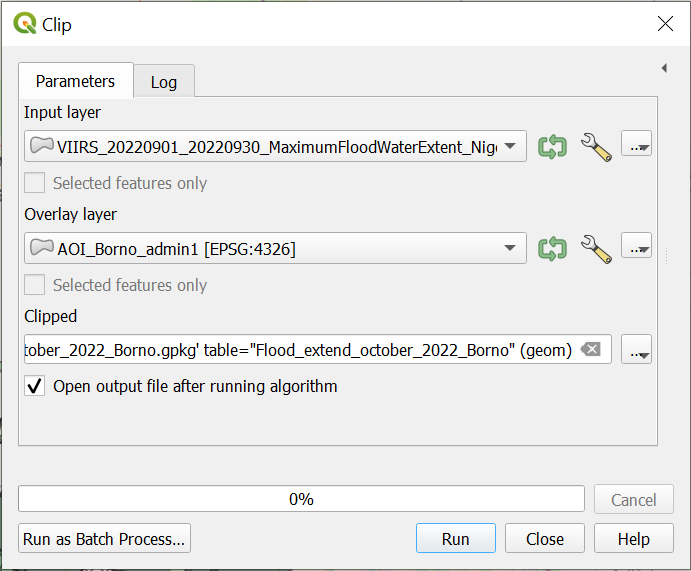
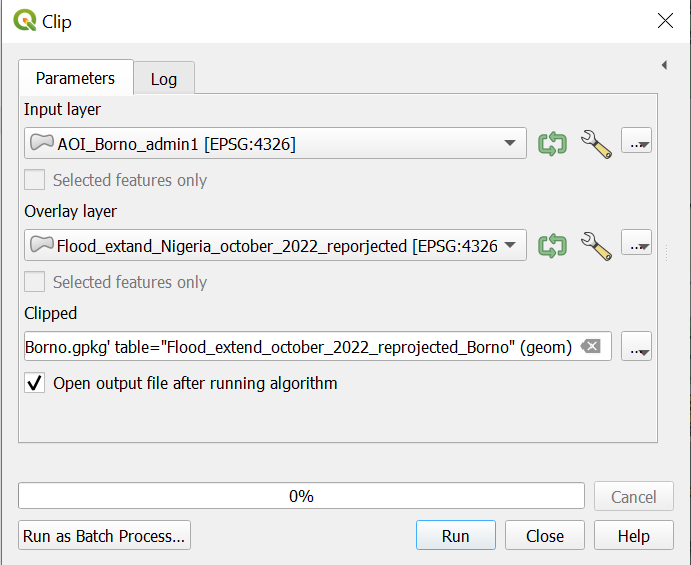
finishing Nigeria Flood exercise and adding a wiki section for map making

diff --git a/content/Modul_3/en_qgis_modul_3_ex1.md b/content/Modul_3/en_qgis_modul_3_ex1.md
@@ -10,6 +10,14 @@ In this exercise, you will learn how to digitise the positions of settlements by
 * [Types of Geodata](https://giscience.github.io/gis-training-resource-center/content/Wiki/en_qgis_geodata_types_wiki.html)
 * [Geodata Import in QGIS](https://giscience.github.io/gis-training-resource-center/content/Wiki/en_qgis_import_geodata_wiki.html)
 * [Layer Concept](https://giscience.github.io/gis-training-resource-center/content/Wiki/en_qgis_layer_concept_wiki.html)
+* [Non-Spatial Querie](https://giscience.github.io/gis-training-resource-center/content/Wiki/en_qgis_non_spatial_queries_wiki.html)
+* [Spatial Queries](https://giscience.github.io/gis-training-resource-center/content/Wiki/en_qgis_spatial_queries_wiki.html)
+* [Table function - Add field](https://giscience.github.io/gis-training-resource-center/content/Wiki/en_qgis_table_functions_wiki.html#add-field)
+* [Geodata Classification- Categorized](https://giscience.github.io/gis-training-resource-center/content/Wiki/en_qgis_categorized_wiki.html)
+* [Geodata Classification- Graduated](https://giscience.github.io/gis-training-resource-center/content/Wiki/en_qgis_graduated_wiki.html)
+* [Digitization- Point data](https://giscience.github.io/gis-training-resource-center/content/Wiki/en_qgis_digitalization_wiki.html#add-geometries-to-a-layer)
+* [Geoprocessing - Clip](https://giscience.github.io/gis-training-resource-center/content/Wiki/en_qgis_geoprocessing_wiki.html#clip) 
+
 
 ## Data sources
 * [Nigeria: Administrative Division with Aggregated Population ("kontur_boundaries_NG_20230628.gpkg")](https://data.humdata.org/dataset/kontur-boundaries-nigeria)-Kontor
@@ -113,7 +121,7 @@ align: center
 12. In this step, we want to add information about the population to the map. This will help us to visualize where the most people are potentially affected.
 Since the layer “Borno_admin2_pop” contains this information we can dublicate this layer. 
     * To do that right click on the layer -> `Duplicate Layer`. The name of the new layer will be “Borno_admin2_pop_copy”. 
-13. Since absolute population numbers are natural numbers, we can not use categorised classification. Instead, we use the option `Graduated`.
+13. Since absolute population numbers are natural numbers, we can not use categorised classification. Instead, we use the option `Graduated` ([Wiki Video](https://giscience.github.io/gis-training-resource-center/content/Wiki/en_qgis_graduated_wiki.html)).
     * Right-click on the layer “Borno_admin2_pop_copy” in the `Layer Panel` -> `Properties`. A new window will open up with a vertical tab section on the left. Navigate to the `Symbology` tab.
     * On the top you find a dropdown menue. Open it and choose `Graduated`.
     * Under `Value` select “Population”.
@@ -130,7 +138,6 @@ name:
 align: center
 ---
 ```
-
 14. QGIS created now five classes covering the whole range of population numbers in Borno state. Click on the `Histogram` Tab -> `Load Values`. Here you see the distribution of values in the dataset and the limits of the classes. We see that most LGAs have a population below 300.000 people. Try out some of the other modes of classification like natural breaks or equal intervals. 
 ```{figure} /fig/en_qgis_graduated_classification_Histogram_nigeria_flood_exercise.png
 ---
@@ -153,7 +160,6 @@ name:
 align: center
 ---
 ```
-
 * To only use borders, click on `simple fill` -> `Fill style` and select `No Brusch`. Adjust the `Stroke Color` to a red or another bride colour. Increase the `Stroke width` to make the borders bigger. Then click `OK`.
 
 ```{figure} /fig/en_qgis_now_brush_nigeria_flood_exercise.png
@@ -163,15 +169,28 @@ name:
 align: center
 ---
 ```
-16. For a more detailed idea of the flood extend we can load the layer “VIIRS_20220901_20220930_MaximumFloodWaterExtent_Nigeria.shp” which shows the maximum extent of surface water between 9th and 30th October 2022. If you like you can also load “VIIRS_20220901_20220930_PermanentWater_Nigeria.shp”. This layer shows laked and other permanent surface water features.
-The flood extend layer covers the whole of Nigeria. We can use the `Clip` tool to cut it to the shape of Borno state.
+16. For a more detailed idea of the flood extend we can load the layer “VIIRS_20220901_20220930_MaximumFloodWaterExtent_Nigeria.shp” which shows the maximum extent of surface water between 9th and 30th October 2022. If you like you can also load “VIIRS_20220901_20220930_PermanentWater_Nigeria.shp”. This layer shows lakes and other permanent surface water features.
+Once you loaded the layers in QGIS, you can see that they are correctly displayed. However, upon checking the layer information you can see that the new layers have a different Coordinate Reference System (CRS). They have the EPSG Code 9707 whereas our project has 4326 ([Wiki Video](https://giscience.github.io/gis-training-resource-center/content/Wiki/en_qgis_projections_wiki.html#how-to-check-epsg-code-crs-of-layer-data)).
+    * Right click on the data layer, click on  “Properties”.
+    * The “Layer Properties” Window of the data layer will open. Click on “Information”.
+    * Under the headline “Coordinate Reference System (CRS)” you find all information about the CRS. The most important are:
+    - __Name:__     Here you find the EPSG Code
+    - __Unites:__    Here you can find wether it is possible to use meters with this data layer or latitude and longitude. 
+17. This will be a problem as soon as we do something different then just displaying the layers. Since we want to manipulate the layers in the next step we need to reproject them first ([Wiki Video](https://giscience.github.io/gis-training-resource-center/content/Wiki/en_qgis_projections_wiki.html#changing-the-projection-of-a-vector-layer)). 
+    * Click on the `Vector` Tab -> `Data Management Tools` -> `Reproject Layer` or search for the tool in the `Processing Toolbox `.
+    * As `Input layer` select “VIIRS_20220901_20220930_MaximumFloodWaterExtent_Nigeria.shp”
+    * Select as target CRS/ EPSG-Code __4326__.
+    * Save the new file in your `temp` folder by clicking on the three dots ![](/fig/Three_points.png) next to `Reprojected`, specify the file name as "Flood_extand_Nigeria_october_2022_reprojected.
+    * Click `Run`
+    * Delet the old layer from the layer panel by right click on the layer -> `Remove layer`.
+18. The flood extend layer covers the whole of Nigeria. We can use the `Clip` tool to cut it to the shape of Borno state ([Wiki Video](https://giscience.github.io/gis-training-resource-center/content/Wiki/en_qgis_geoprocessing_wiki.html#clip)).
     * Open the `Processing Toolbox` ([here is how](https://giscience.github.io/gis-training-resource-center/content/Wiki/en_qgis_interface_wiki.html#toolbox-toolbars)) and search for the `Clip` tool.
     ```{Note}
     There are __two__ versions of the `Clip` tool. Since we work with vector data, make sure to use the one under “Vector overlay”.
     ```
     * `Input layer`: "VIIRS_20220901_20220930_MaximumFloodWaterExtent_Nigeria.shp”
     * `Overlay layer`: “AOI_Borno_admin1”
-    * To save the output click on the three points at `Clipped`-> `Save to GeoPackage`and navigate to your `temp` folder. Save the new layer under the name “Flood_extend_october_2022_Borno”. Give the new layer the same `Layer name` and click `Run`.
+    * To save the output click on the three points at `Clipped`-> `Save to GeoPackage`and navigate to your `temp` folder. Save the new layer under the name “Flood_extend_october_2022_reprojected_Borno”. Give the new layer the same `Layer name` and click `Run`.
 ```{figure} /fig/en_qgis_clip_flood_exercise.png
 ---
 width: 400px
@@ -179,6 +198,20 @@ name:
 align: center
 ---
 ```
+
+Great, we have done our visualisation. WELL DONE!
+Your results should look similar to the image below.
+
+```{figure} /fig/en_qgis_result_flood_exercise.png
+---
+width: 600px
+name: 
+align: center
+---
+```
+
+
+
     
 
 

diff --git a/content/Wiki/en_qgis_representation_wiki.md b/content/Wiki/en_qgis_representation_wiki.md
@@ -1,0 +1,1 @@
+# Map making and visualisation in QGIS

diff --git a/content/Wiki/en_qgis_visualisation_wiki.md b/content/Wiki/en_qgis_visualisation_wiki.md
@@ -1,0 +1,1 @@
+# Visualisation

diff --git a/content/Wiki/en_qgis_map_making_wiki.md b/content/Wiki/en_qgis_map_making_wiki.md
@@ -1,0 +1,1 @@
+# Map making
